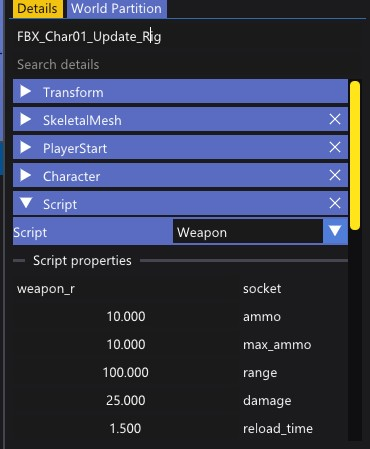
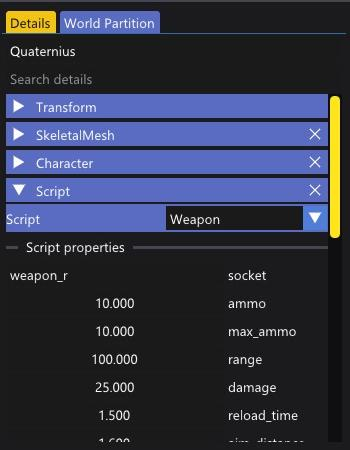
Add pistol animations to the gun lesson
Add standalone Quaternius shoot and reload clips, use them in the weapon example, and orient generated weapon sockets based on the hand rig. Refresh related screenshots and asset licensing notes.

Changed region(s): [[0.0, 0.0, 1.0, 1.0], [0.2571, 0.6548, 0.4, 0.9978]]

diff --git a/editor/assistant_lessons.cpp b/editor/assistant_lessons.cpp
@@ -2,16 +2,19 @@
 #include "assistant_core.h"
 #include "skinned_cache.h"
 
+#include "lsd/animation/animation.h"
 #include "lsd/asset/data_asset.h"
 #include "lsd/input/input.h"
 #include "lsd/reflect/reflect.h"
 #include "lsd/world/components.h"
 #include "lsd/world/world.h"
 
+#include <cmath>
 #include <cstdio>
 #include <cstring>
 #include <filesystem>
 #include <fstream>
+#include <vector>
 
 namespace lsd::editor::assistant {
 
@@ -59,7 +62,7 @@ STEP 4: The Weapon component (Unreal: a Weapon Actor Component on the Character)
 - Aim (RMB held): the camera's spring arm eases in to Aim Distance and slides over the right shoulder (Unreal: Spring Arm Target Arm Length and Socket Offset); the crosshair turns red.
 - The aim pose, in code: every frame while aiming, lsd.ik_reach puts the hand bone on a point Aim Reach metres from the shoulder along the camera's view, bending the elbow (Unreal: a Two Bone IK node in the Anim Blueprint). The arm comes up and the gun points where the crosshair is, on top of whatever animation plays; its weight follows the aim, so it eases in and out.
 - Shoot (LMB): a ray from the camera through the crosshair (lsd.camera_location + lsd.camera_forward, like Unreal's Line Trace by Channel from the camera), one round less, a tracer line from the gun to the hit. What it hits gets on_damage(self, amount, shooter) on its own script, if it has one (Unreal: Apply Damage / Event AnyDamage).
-- Montages (Unreal's Play Montage with a slot and Layered Blend per Bone): lsd.play_montage(self.entity, "Anim_Reload", 1, "spine_01") plays that animation once on the upper body (spine_01 and every bone under it) while the legs keep their own animation, blended in and out; on_montage_ended(self) runs when it ends. Each shot plays Shoot Montage the same way, the reload plays Reload Montage.
+- Montages (Unreal's Play Montage with a slot and Layered Blend per Bone): lsd.play_montage(self.entity, "Anim_Quaternius_Pistol_Reload", 1, "spine_01") plays that animation once on the upper body (spine_01 and every bone under it) while the legs keep their own animation, blended in and out; on_montage_ended(self) runs when it ends. Each shot plays Shoot Montage the same way, the reload plays Reload Montage.
 - Reload (R): lsd.after(Reload Time, ...) is the timer (Set Timer by Event). Until it fires the HUD says Reloading... and shots are refused, then the magazine is full again.
 - The script only drives the player's character, so the same component on an AI character does nothing until you give it its own logic.
 
@@ -83,8 +86,8 @@ properties = {
   crosshair_size = 6,               -- the dot's size in pixels (0 hides it)
   crosshair_color = "#FFFFFF",      -- the dot's colour (#RRGGBB)
   crosshair_aim_color = "#FF4040",  -- its colour while aiming
-  shoot_montage = "Anim_Aim_Shoot", -- played on the upper body per shot (an animation file's name; "" = none)
-  reload_montage = "Anim_Reload",   -- played on the upper body while reloading
+  shoot_montage = "Anim_Quaternius_Pistol_Shoot",   -- played on the upper body per shot (an animation file's name; "" = none)
+  reload_montage = "Anim_Quaternius_Pistol_Reload", -- played on the upper body while reloading
 }
 
 -- The HUD: the ammo count and the crosshair dot, changed only when a value changed.
@@ -325,6 +328,28 @@ bool apply_gun(EditorState& s, const Lesson& lesson, std::string& report) {
             std::snprintf(socket.bone, sizeof socket.bone, "%s", bone);
             socket.position = {-0.12f, 0.0f, 0.0f};  // in front of the palm; tune in the Mesh Editor > Sockets
             socket.rotation = {0.0f, 0.0f, 180.0f};   // Unreal-style right hands: the bone's +X runs back up the arm
+            // Other rigs (Blender exports: the bone's +Y runs to the fingers): the gun's +X along the longest finger bone.
+            const anim::SkinnedModel& rig = *model->model;
+            const i32 hand = rig.find_joint(bone);
+            std::vector<Mat4> rest(rig.joint_count());
+            anim::rest_locals(rig, rest.data());
+            Vec3 fingers{};
+            for (u32 j = 0; j < rig.joint_count(); ++j) {
+                const Vec3 t{rest[j].at(0, 3), rest[j].at(1, 3), rest[j].at(2, 3)};
+                if (rig.joint_parent(j) == hand && length(t) > length(fingers)) fingers = t;
+            }
+            const f32 ax = std::fabs(fingers.x), ay = std::fabs(fingers.y), az = std::fabs(fingers.z);
+            const f32 sy = fingers.y > 0 ? 1.0f : -1.0f, sz = fingers.z > 0 ? 1.0f : -1.0f;
+            if (ay > ax && ay > az) {
+                socket.position = {0.0f, 0.08f * sy, 0.0f};
+                socket.rotation = {0.0f, 0.0f, 90.0f * sy};
+            } else if (az > ax) {
+                socket.position = {0.0f, 0.0f, 0.08f * sz};
+                socket.rotation = {0.0f, -90.0f * sz, 0.0f};
+            } else if (fingers.x > 0) {
+                socket.position = {0.12f, 0.0f, 0.0f};
+                socket.rotation = {};
+            }
             if (meta.sockets.push_back(socket) && s.registry->save_meta(*mesh_record, meta)) report += std::string("socket weapon_r on ") + bone + "; ";
             else report += "the mesh has no room for another socket; ";
         }
